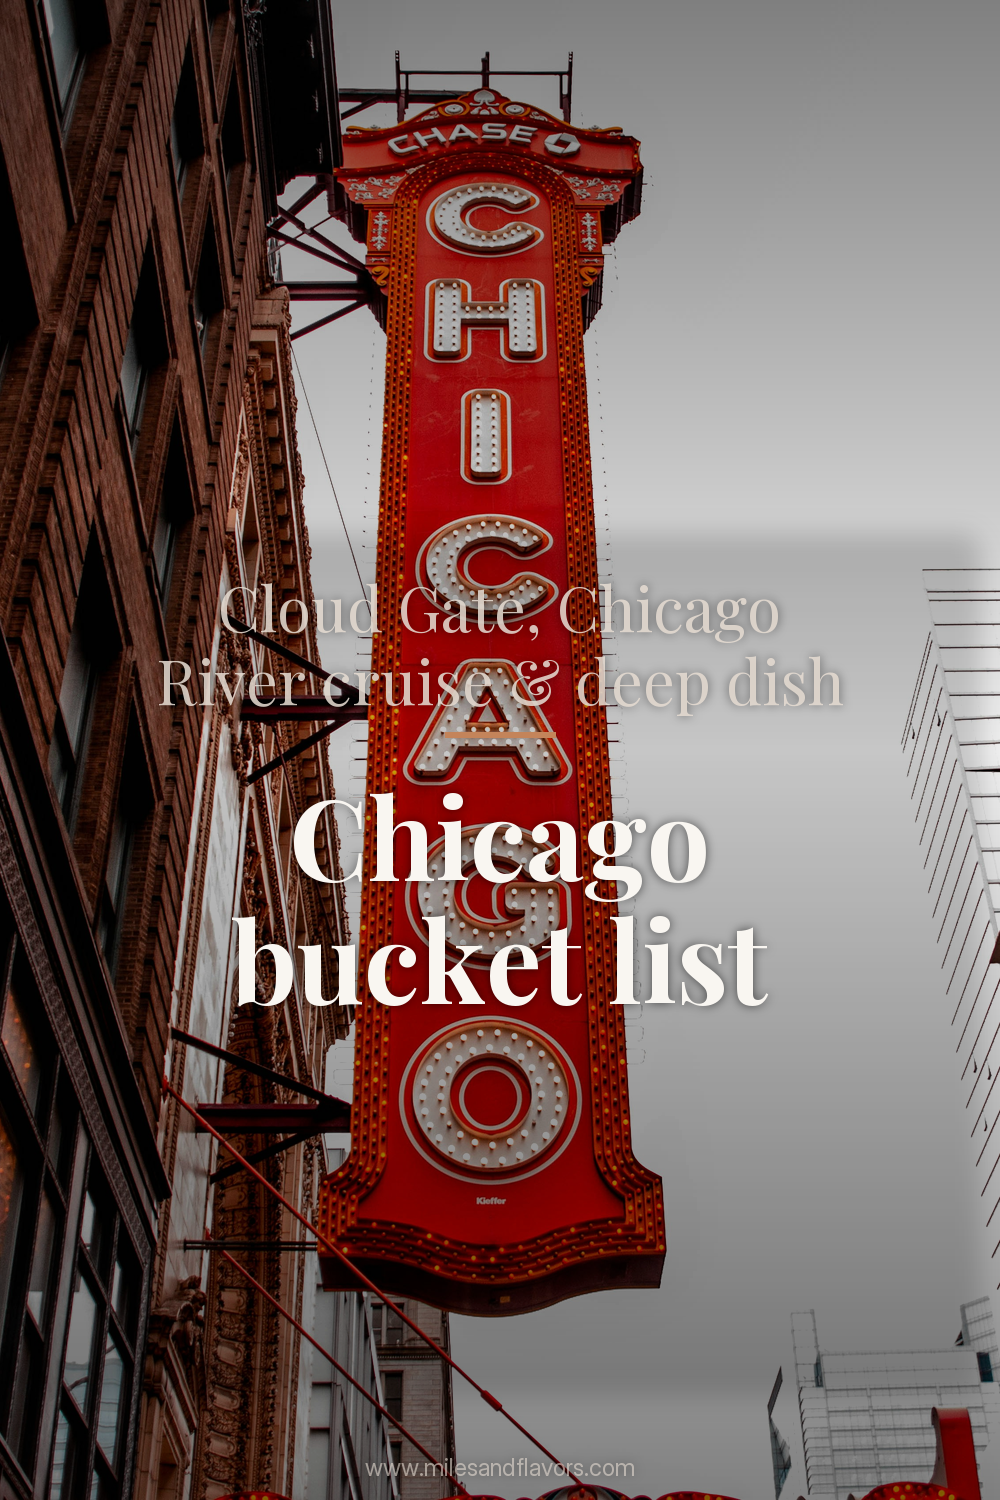
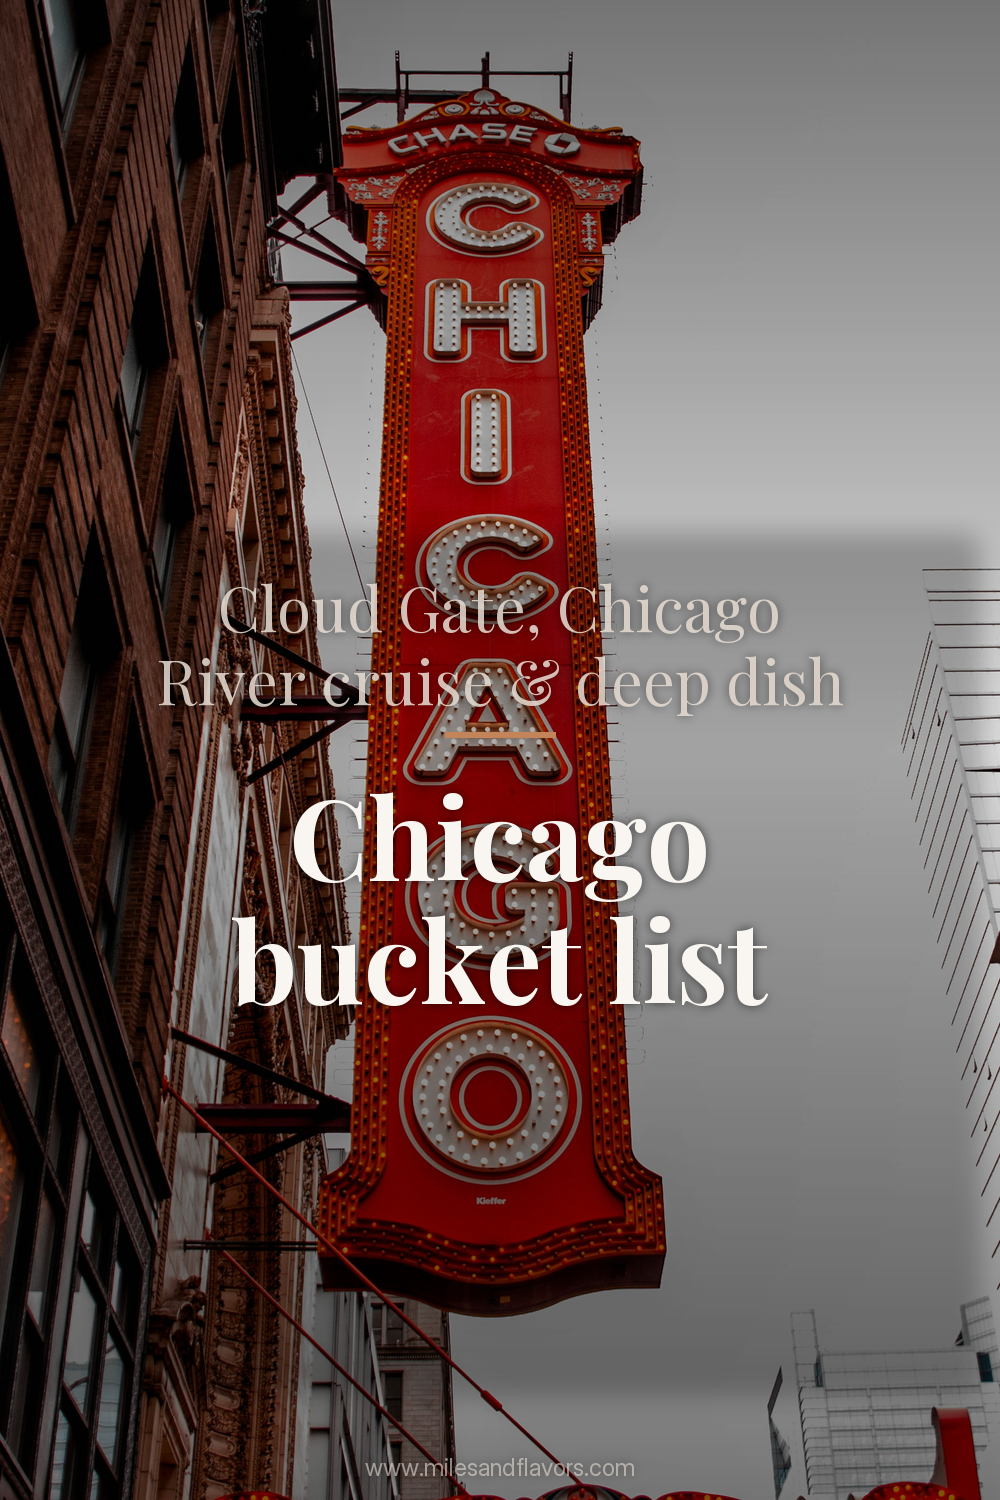
Chicago bucket list: Centered medium (overlay=65, no brightness boost)

diff --git a/render.py b/render.py
@@ -190,6 +190,9 @@ def parse_template(template):
     elif "light" in t:
         overlay_alpha = 45
         brightness = 1.10
+    elif "medium" in t:
+        overlay_alpha = 65
+        brightness = 1.0
     else:
         overlay_alpha = 90
         brightness = 1.0
